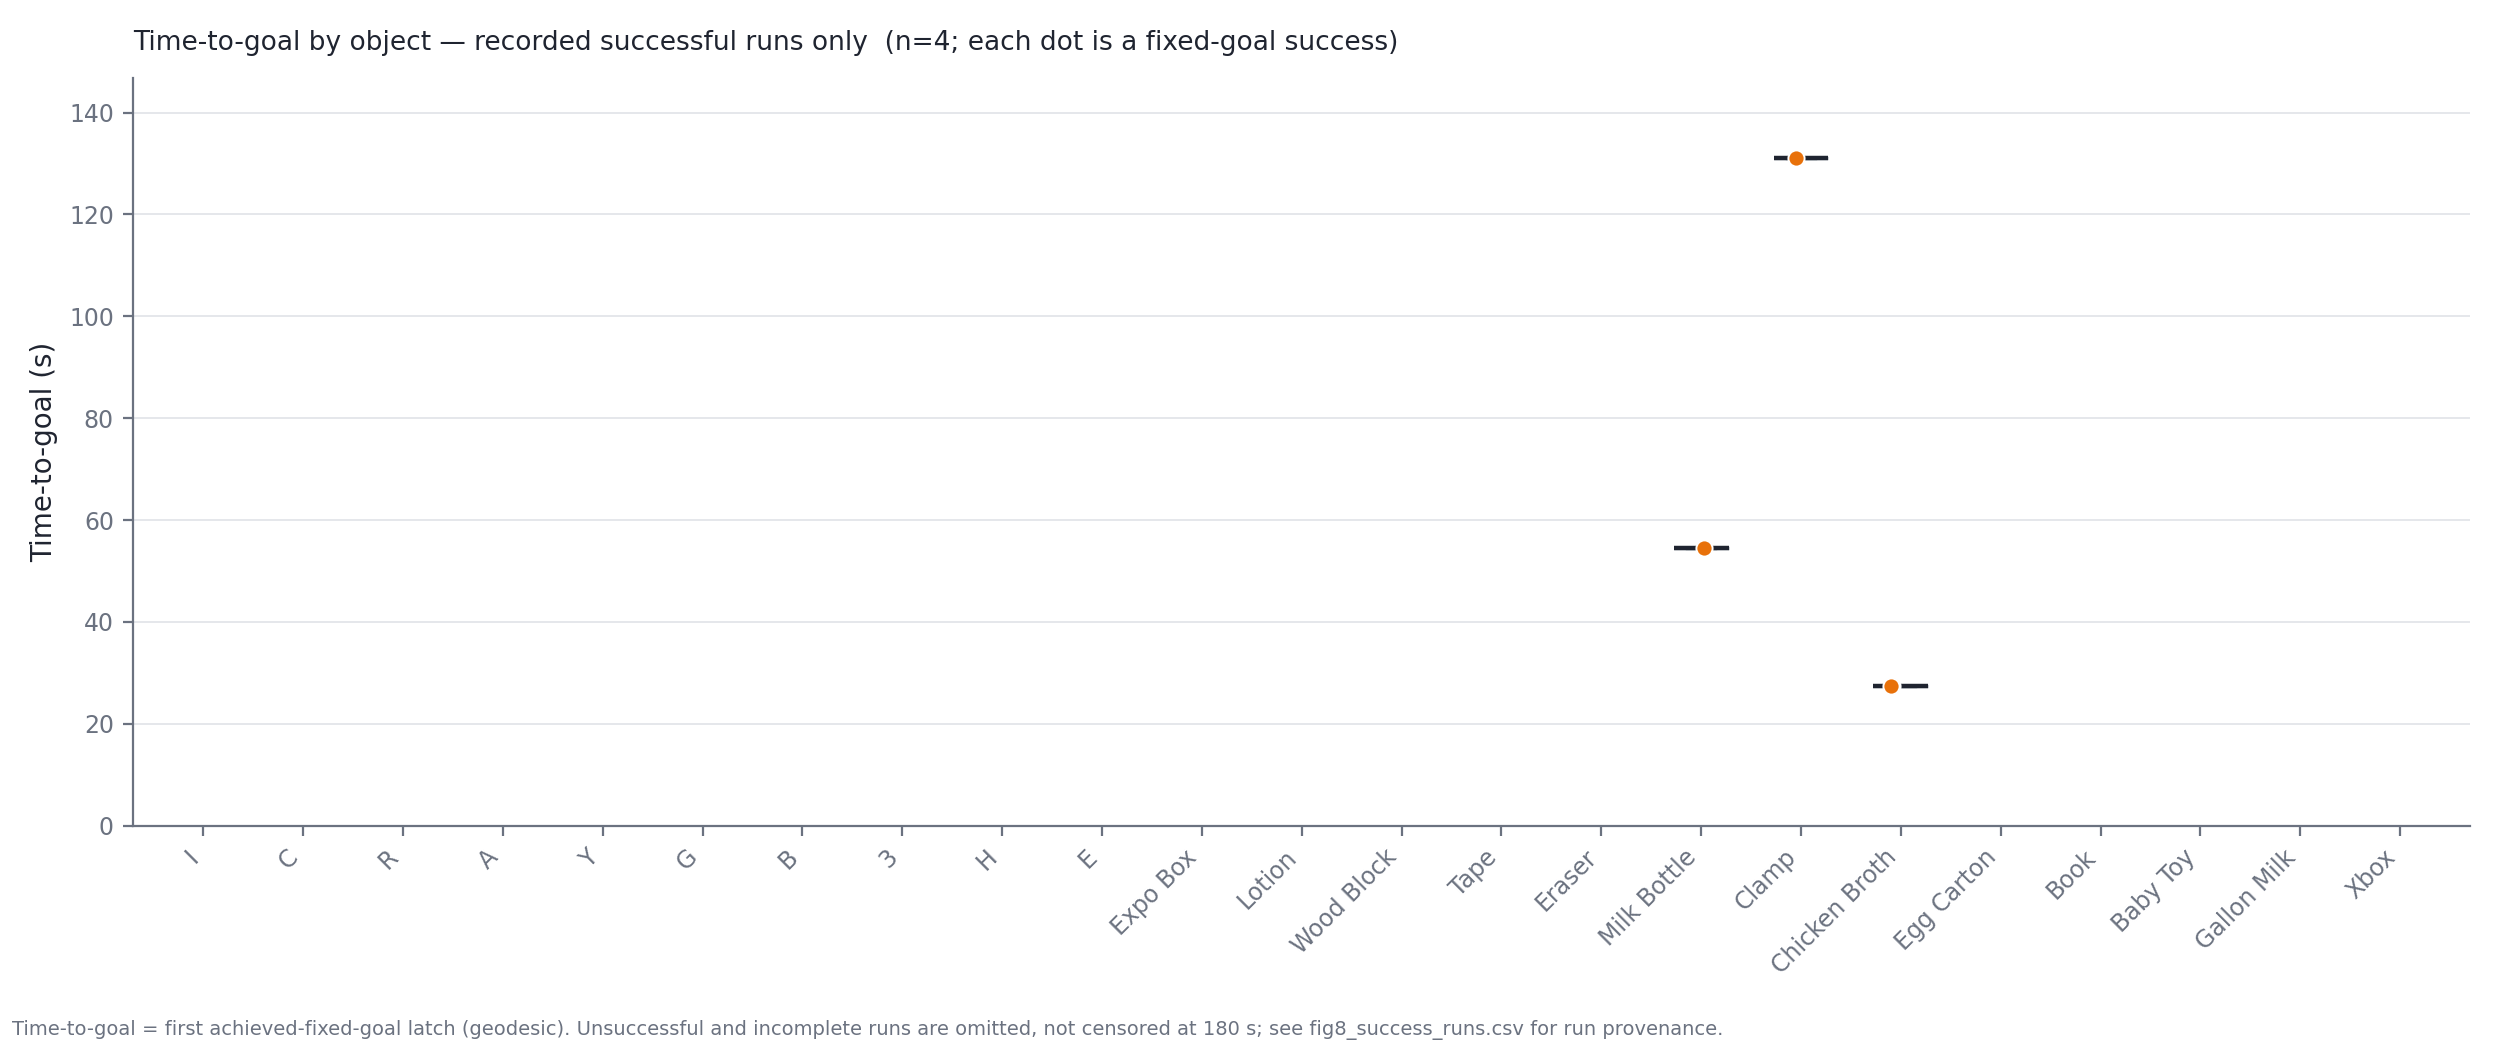
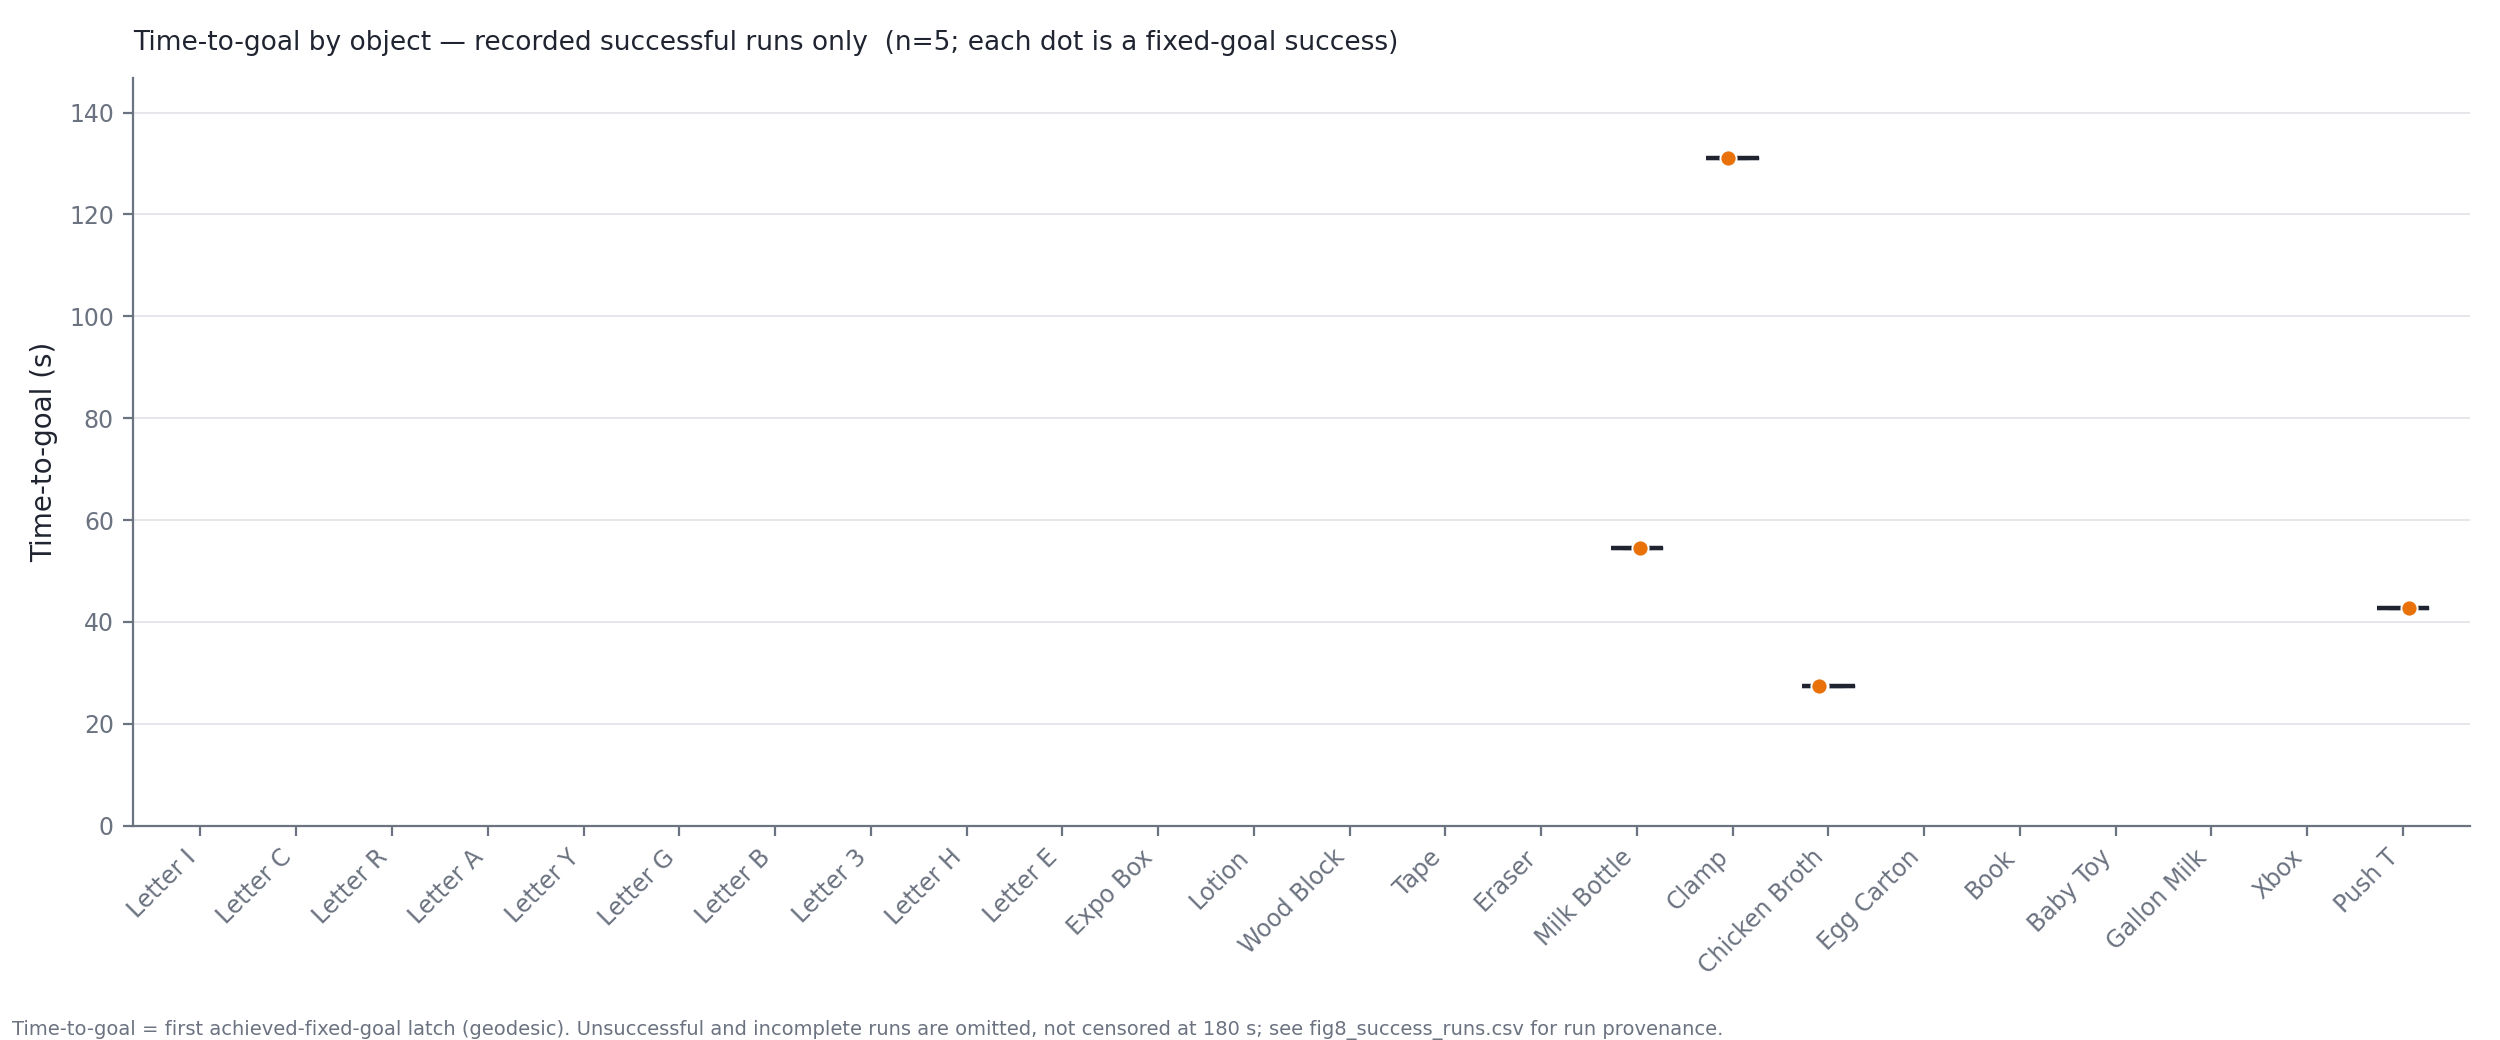
docs(fig8): add Push T result and clarify labels

diff --git a/scripts/plot_fig8.py b/scripts/plot_fig8.py
@@ -1,8 +1,9 @@
 #!/usr/bin/env python3
 """Fig 8-style time-to-goal figure for all recorded successful runs.
 
-Every completed log under ``results/fig8_objects`` whose filename starts with a
-known task name is considered.  A run is recorded only when it contains an
+Every completed log in a task's configured Fig. 8 result directory whose
+filename starts with the task name is considered. A run is recorded only when
+it contains an
 ``ACHIEVED-FIXED-GOAL`` latch; unsuccessful runs are neither assigned a timeout
 value nor drawn as censored observations.  The y-axis expands to the measured
 success times, including successes later than 180 s.
@@ -19,21 +20,23 @@ import numpy as np
 
 REPO = os.path.dirname(os.path.dirname(os.path.abspath(__file__)))
 OUT_DIR = os.path.join(REPO, "results", "fig8_objects")
+BLOCK_OUT_DIR = os.path.join(REPO, "results", "fig8_blocks")
 
 ORDER = [
-    ("I", "I_shape_texture"), ("C", "C_shape_texture"),
-    ("R", "R_shape_texture"), ("A", "A_shape_video"),
-    ("Y", "Y_shape_video"), ("G", "G_shape_video"),
-    ("B", "B_shape_video"), ("3", "3_shape_video"),
-    ("H", "H_shape_texture"), ("E", "E_shape_video"),
+    ("Letter I", "I_shape_texture"), ("Letter C", "C_shape_texture"),
+    ("Letter R", "R_shape_texture"), ("Letter A", "A_shape_video"),
+    ("Letter Y", "Y_shape_video"), ("Letter G", "G_shape_video"),
+    ("Letter B", "B_shape_video"), ("Letter 3", "3_shape_video"),
+    ("Letter H", "H_shape_texture"), ("Letter E", "E_shape_video"),
     ("Expo Box", "expo_box"), ("Lotion", "lotion"),
     ("Wood Block", "wood_block"), ("Tape", "tape"),
     ("Eraser", "eraser"), ("Milk Bottle", "milk"),
     ("Clamp", "clamp"), ("Chicken Broth", "chicken_broth"),
     ("Egg Carton", "egg_carton"), ("Book", "book"),
     ("Baby Toy", "baby_toy"), ("Gallon Milk", "gallon_milk"),
-    ("Xbox", "xbox"),
+    ("Xbox", "xbox"), ("Push T", "push_t_white_block"),
 ]
+TASK_LOG_DIR = {"push_t_white_block": BLOCK_OUT_DIR}
 STEP_DT = 0.075
 SUCCESS_CSV = os.path.join(REPO, "FIG8_SUCCESS_RUNS.csv")
 
@@ -50,10 +53,11 @@ def collect():
     records = []
     for disp, task in ORDER:
         times = []
-        for fn in sorted(os.listdir(OUT_DIR)):
+        log_dir = TASK_LOG_DIR.get(task, OUT_DIR)
+        for fn in sorted(os.listdir(log_dir)):
             if not (fn.startswith(f"{task}_") and fn.endswith(".log")):
                 continue
-            txt = open(os.path.join(OUT_DIR, fn), errors="replace").read()
+            txt = open(os.path.join(log_dir, fn), errors="replace").read()
             if "[RESULT]" not in txt:
                 continue          # incomplete/crashed run: not a trial
             m = re.search(r"ACHIEVED-FIXED-GOAL\] step=(\d+)", txt)
@@ -65,7 +69,7 @@ def collect():
                 records.append({
                     "object": disp,
                     "task": task,
-                    "log": fn,
+                    "log": os.path.relpath(os.path.join(log_dir, fn), REPO),
                     "commit": meta.group(1) if meta else "",
                     "seed": meta.group(2) if meta else "",
                     "first_goal_step": step,
@@ -79,7 +83,7 @@ def write_success_records(records):
     fields = ["object", "task", "log", "commit", "seed",
               "first_goal_step", "time_to_goal_s"]
     with open(SUCCESS_CSV, "w", newline="") as f:
-        writer = csv.DictWriter(f, fieldnames=fields)
+        writer = csv.DictWriter(f, fieldnames=fields, lineterminator="\n")
         writer.writeheader()
         writer.writerows(records)
 

diff --git a/README.md b/README.md
@@ -87,11 +87,12 @@ contact model are refreshed. See `control/admm_solver.py`,
 ![Time-to-goal across recorded successful fixed-goal runs](docs/figures/fig8_fixed_goal_result.png)
 
 **Stored Fig. 8-style object campaign.** The figure records every completed run
-under `results/fig8_objects/` that reached the fixed-goal latch. Unsuccessful and
-incomplete runs are omitted rather than censored at 180 s, and successful runs
-after 180 s remain eligible at their measured time-to-goal. Each dot represents
-one successful log; repeated task/seed combinations are retained as separate
-runs rather than silently deduplicated.
+in the configured Fig. 8 result directories that reached the fixed-goal latch,
+including the Block-T experiment shown as Push T. Unsuccessful and incomplete
+runs are omitted rather than censored at 180 s, and successful runs after 180 s
+remain eligible at their measured time-to-goal. Each dot represents one
+successful log; repeated task/seed combinations are retained as separate runs
+rather than silently deduplicated.
 
 This is a fixed-goal port-replication diagnostic—not the paper's randomized-goal
 protocol and not a success-rate estimate. The tracked success-run manifest is
